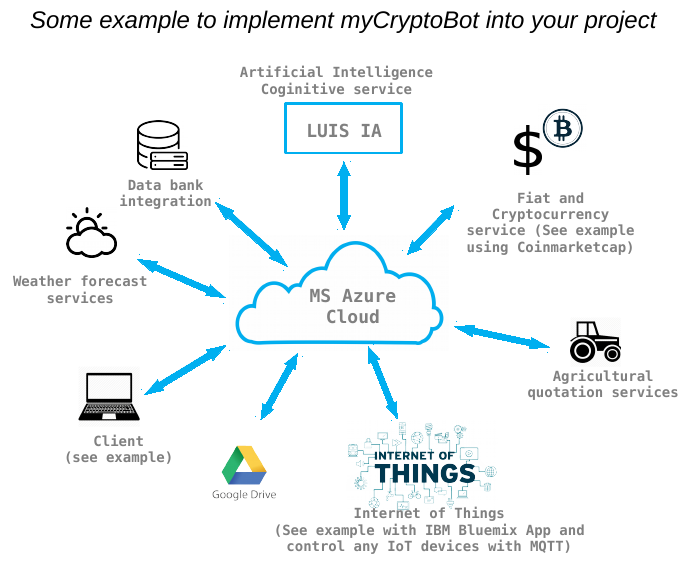
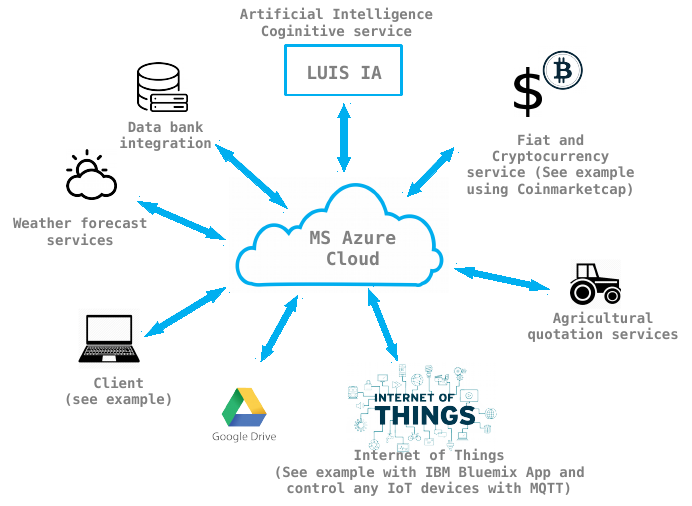
Adjusting framework image

Changed region(s): [[0.0, 0.0, 0.9408, 0.9783], [0.7587, 0.504, 1.0, 0.7115], [0.3035, 0.7411, 0.3945, 0.8893]]

diff --git a/README.md b/README.md
@@ -71,9 +71,11 @@ npm start
 
 ### myCryptoBot full framework
 
+Below is an framework to implement into your project
+
 ![Image](/docs/images/screenshot16.png)
 
-#### Screenshots
+### Screenshots
 
 Markdown is a lightweight and easy-to-use syntax for styling your writing. It includes conventions for
 
